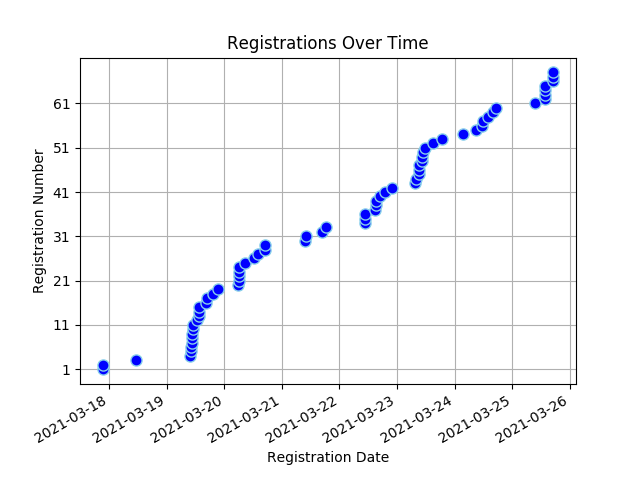
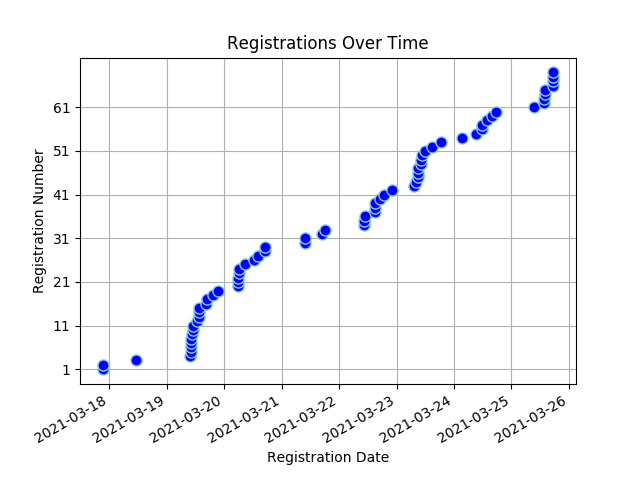
Registree stats backup on Thu 25 Mar 2021 17:31:26 SAST

diff --git a/content/registrees/_index.md b/content/registrees/_index.md
@@ -3,7 +3,7 @@ title: Registration Stats
 draft: false
 ---
 
-<ul><li><strong>Number of Registrees</strong>: 68</li>
+<ul><li><strong>Number of Registrees</strong>: 69</li>
 
 <li><strong>Number of Clubs</strong>: 36</li>
 
@@ -33,6 +33,6 @@ draft: false
         </tr>
     </thead>
     <tbody>
-<tr><td>Natalie Abrahams</td><td>Cape Town</td><td>410W</td></tr><tr><td>Valencia Beukes-Williams</td><td>Kuilsriver</td><td>410W</td></tr><tr><td>JOSE BRAGA BORGES</td><td>Malmesbury</td><td>410W</td></tr><tr><td>Herman Cadman</td><td>Stellenbosch</td><td>410W</td></tr><tr><td>Linda Ann Cannone</td><td>Fish Hoek</td><td>410W</td></tr><tr><td>Sue Charles</td><td>Tokai</td><td>410W</td></tr><tr><td>Perry Chetty</td><td>East Coast</td><td>410E</td></tr><tr><td>Esme Cornelius</td><td>Kuilsriver</td><td>410W</td></tr><tr><td>Sharon Cottle</td><td>Groote Schuur</td><td>410E</td></tr><tr><td>Peter Daniel</td><td>Gordons Bay</td><td>410W</td></tr><tr><td>Norma Daniel</td><td>Gordons Bay</td><td>410W</td></tr><tr><td>Engela de Kock</td><td>Swellendam</td><td>410W</td></tr><tr><td>Francois de Kock</td><td>Swellendam</td><td>410W</td></tr><tr><td>ANDRE DE VILLIERS</td><td>Malgas</td><td>410W</td></tr><tr><td>Desiree du Toit</td><td>Ramsgate</td><td>410E</td></tr><tr><td>Roger Fahrbach</td><td>Windhoek</td><td>410W</td></tr><tr><td>Beate Fahrbach</td><td>Windhoek</td><td>410W</td></tr><tr><td>Charles Flanagan</td><td>Tokai</td><td>410W</td></tr><tr><td>Jules Flanagan</td><td>Tokai</td><td>410W</td></tr><tr><td>Viv Grater</td><td>Sedgefield</td><td>410W</td></tr><tr><td>Dorothy Hess</td><td>Kuilsriver</td><td>410W</td></tr><tr><td>Wendy Higgins</td><td>Wilro Park</td><td>410E</td></tr><tr><td>Jacqui Hocking</td><td>Midrand</td><td>410E</td></tr><tr><td>Cliff Hocking</td><td>Midrand</td><td>410E</td></tr><tr><td>Liz Houston</td><td>Table View</td><td>410W</td></tr><tr><td>John Houston</td><td>Table View</td><td>410W</td></tr><tr><td>WOLSLEY Jacobson</td><td>Cape Town</td><td>410W</td></tr><tr><td>Zwaai Kruger</td><td>Sedgefield</td><td>410W</td></tr><tr><td>Bevil Lakay</td><td>Mitchells Plain</td><td>410W</td></tr><tr><td>Paula Lang</td><td>Gordons Bay</td><td>410W</td></tr><tr><td>Jimmy Lang</td><td>Gordons Bay</td><td>410W</td></tr><tr><td>Sharon Mangwende</td><td>Cape Town</td><td>410E</td></tr><tr><td>Beaulieu Mare</td><td>Benoni Lakes</td><td>410E</td></tr><tr><td>Mark Meltzer</td><td>The Wilds</td><td>410E</td></tr><tr><td>Denis Meyer</td><td>Port Shepstone</td><td>410E</td></tr><tr><td>BERNICE MILLS</td><td>Centurion</td><td>410E</td></tr><tr><td>Patrick Mills</td><td>Centurion</td><td>410E</td></tr><tr><td>Cherie Milosevich</td><td>Milnerton</td><td>410W</td></tr><tr><td>Virginia Mkhize</td><td>Cape Town</td><td>410W</td></tr><tr><td>Bernadine Moses</td><td>Cape Town</td><td>410W</td></tr><tr><td>Pieter Nel</td><td>George</td><td>410W</td></tr><tr><td>Tillie Nel</td><td>Eden</td><td>410W</td></tr><tr><td>BRIAN PORTEOUS</td><td>Hibberdene</td><td>410E</td></tr><tr><td>Irene Rugheimer</td><td>Bedfordview</td><td>410E</td></tr><tr><td>Ingrid Russell</td><td>Fish Hoek</td><td>410W</td></tr><tr><td>Francis Searle</td><td>Kouga</td><td>410E</td></tr><tr><td>Gloria Searle</td><td>Kouga</td><td>410E</td></tr><tr><td>Sue Smit</td><td>Centurion</td><td>410E</td></tr><tr><td>Jeff Smith</td><td>Port Shepstone</td><td>410E</td></tr><tr><td>LYN SNYMAN</td><td>Deep South</td><td>410W</td></tr><tr><td>RORY stier</td><td>Deep South</td><td>410W</td></tr><tr><td>Patrick Strauss</td><td>Kuilsriver</td><td>410W</td></tr><tr><td>Lauryn Talbot</td><td>Benoni Lakes</td><td>410E</td></tr><tr><td>Alistair Tuckett</td><td>Roodepoort Clearwater Cyber</td><td>410E</td></tr><tr><td>HILARY LISE VAN BREDA</td><td>Cape Town</td><td>410W</td></tr><tr><td>Marina Van de Merwe</td><td>Malmesbury</td><td>410W</td></tr><tr><td>Neville Van Rensburg</td><td>Moorreesburg</td><td>410W</td></tr><tr><td>Johan van Rensburg</td><td>Windhoek</td><td>410W</td></tr><tr><td>Anne van Rensburg</td><td>Windhoek</td><td>410W</td></tr><tr><td>Jeannie van Wulven</td><td>Tygerberg Hills</td><td>410W</td></tr><tr><td>Alan van Wulven</td><td>Tygerberg Hills</td><td>410W</td></tr><tr><td>Deon van Wulven</td><td>Tygerberg Hills</td><td>410W</td></tr><tr><td>Kim van Wyk</td><td>North Durban</td><td>410E</td></tr><tr><td>Edith Van Wyk-Nelson</td><td>Kuilsriver</td><td>410W</td></tr><tr><td>Brian von der Decken</td><td>King William's Town</td><td>410E</td></tr><tr><td>Rochelle Vorster</td><td>Sedgefield</td><td>410W</td></tr><tr><td>Allan Watson</td><td>Sea Point</td><td>410W</td></tr><tr><td>Judy Young</td><td>Durbanville</td><td>410W</td></tr>
+<tr><td>Natalie Abrahams</td><td>Cape Town</td><td>410W</td></tr><tr><td>Valencia Beukes-Williams</td><td>Kuilsriver</td><td>410W</td></tr><tr><td>JOSE BRAGA BORGES</td><td>Malmesbury</td><td>410W</td></tr><tr><td>Herman Cadman</td><td>Stellenbosch</td><td>410W</td></tr><tr><td>Linda Ann Cannone</td><td>Fish Hoek</td><td>410W</td></tr><tr><td>Sue Charles</td><td>Tokai</td><td>410W</td></tr><tr><td>Perry Chetty</td><td>East Coast</td><td>410E</td></tr><tr><td>Esme Cornelius</td><td>Kuilsriver</td><td>410W</td></tr><tr><td>Sharon Cottle</td><td>Groote Schuur</td><td>410E</td></tr><tr><td>Peter Daniel</td><td>Gordons Bay</td><td>410W</td></tr><tr><td>Norma Daniel</td><td>Gordons Bay</td><td>410W</td></tr><tr><td>Engela de Kock</td><td>Swellendam</td><td>410W</td></tr><tr><td>Francois de Kock</td><td>Swellendam</td><td>410W</td></tr><tr><td>ANDRE DE VILLIERS</td><td>Malgas</td><td>410W</td></tr><tr><td>Desiree du Toit</td><td>Ramsgate</td><td>410E</td></tr><tr><td>Roger Fahrbach</td><td>Windhoek</td><td>410W</td></tr><tr><td>Beate Fahrbach</td><td>Windhoek</td><td>410W</td></tr><tr><td>Charles Flanagan</td><td>Tokai</td><td>410W</td></tr><tr><td>Jules Flanagan</td><td>Tokai</td><td>410W</td></tr><tr><td>Viv Grater</td><td>Sedgefield</td><td>410W</td></tr><tr><td>Dorothy Hess</td><td>Kuilsriver</td><td>410W</td></tr><tr><td>Wendy Higgins</td><td>Wilro Park</td><td>410E</td></tr><tr><td>Jacqui Hocking</td><td>Midrand</td><td>410E</td></tr><tr><td>Cliff Hocking</td><td>Midrand</td><td>410E</td></tr><tr><td>Liz Houston</td><td>Table View</td><td>410W</td></tr><tr><td>John Houston</td><td>Table View</td><td>410W</td></tr><tr><td>WOLSLEY Jacobson</td><td>Cape Town</td><td>410W</td></tr><tr><td>Jerome Kern</td><td>Groote Schuur</td><td>410W</td></tr><tr><td>Zwaai Kruger</td><td>Sedgefield</td><td>410W</td></tr><tr><td>Bevil Lakay</td><td>Mitchells Plain</td><td>410W</td></tr><tr><td>Paula Lang</td><td>Gordons Bay</td><td>410W</td></tr><tr><td>Jimmy Lang</td><td>Gordons Bay</td><td>410W</td></tr><tr><td>Sharon Mangwende</td><td>Cape Town</td><td>410E</td></tr><tr><td>Beaulieu Mare</td><td>Benoni Lakes</td><td>410E</td></tr><tr><td>Mark Meltzer</td><td>The Wilds</td><td>410E</td></tr><tr><td>Denis Meyer</td><td>Port Shepstone</td><td>410E</td></tr><tr><td>BERNICE MILLS</td><td>Centurion</td><td>410E</td></tr><tr><td>Patrick Mills</td><td>Centurion</td><td>410E</td></tr><tr><td>Cherie Milosevich</td><td>Milnerton</td><td>410W</td></tr><tr><td>Virginia Mkhize</td><td>Cape Town</td><td>410W</td></tr><tr><td>Bernadine Moses</td><td>Cape Town</td><td>410W</td></tr><tr><td>Pieter Nel</td><td>George</td><td>410W</td></tr><tr><td>Tillie Nel</td><td>Eden</td><td>410W</td></tr><tr><td>BRIAN PORTEOUS</td><td>Hibberdene</td><td>410E</td></tr><tr><td>Irene Rugheimer</td><td>Bedfordview</td><td>410E</td></tr><tr><td>Ingrid Russell</td><td>Fish Hoek</td><td>410W</td></tr><tr><td>Francis Searle</td><td>Kouga</td><td>410E</td></tr><tr><td>Gloria Searle</td><td>Kouga</td><td>410E</td></tr><tr><td>Sue Smit</td><td>Centurion</td><td>410E</td></tr><tr><td>Jeff Smith</td><td>Port Shepstone</td><td>410E</td></tr><tr><td>LYN SNYMAN</td><td>Deep South</td><td>410W</td></tr><tr><td>RORY stier</td><td>Deep South</td><td>410W</td></tr><tr><td>Patrick Strauss</td><td>Kuilsriver</td><td>410W</td></tr><tr><td>Lauryn Talbot</td><td>Benoni Lakes</td><td>410E</td></tr><tr><td>Alistair Tuckett</td><td>Roodepoort Clearwater Cyber</td><td>410E</td></tr><tr><td>HILARY LISE VAN BREDA</td><td>Cape Town</td><td>410W</td></tr><tr><td>Marina Van de Merwe</td><td>Malmesbury</td><td>410W</td></tr><tr><td>Neville Van Rensburg</td><td>Moorreesburg</td><td>410W</td></tr><tr><td>Johan van Rensburg</td><td>Windhoek</td><td>410W</td></tr><tr><td>Anne van Rensburg</td><td>Windhoek</td><td>410W</td></tr><tr><td>Jeannie van Wulven</td><td>Tygerberg Hills</td><td>410W</td></tr><tr><td>Alan van Wulven</td><td>Tygerberg Hills</td><td>410W</td></tr><tr><td>Deon van Wulven</td><td>Tygerberg Hills</td><td>410W</td></tr><tr><td>Kim van Wyk</td><td>North Durban</td><td>410E</td></tr><tr><td>Edith Van Wyk-Nelson</td><td>Kuilsriver</td><td>410W</td></tr><tr><td>Brian von der Decken</td><td>King William's Town</td><td>410E</td></tr><tr><td>Rochelle Vorster</td><td>Sedgefield</td><td>410W</td></tr><tr><td>Allan Watson</td><td>Sea Point</td><td>410W</td></tr><tr><td>Judy Young</td><td>Durbanville</td><td>410W</td></tr>
 </tbody>
 </table>

diff --git a/content/full_stats/_index.md b/content/full_stats/_index.md
@@ -16,16 +16,16 @@ draft: false
 </head>
 <body>
 <h1 style="color: #000000;">Full Registration Stats</h1>
-<ul><li><strong>Number of Registrees</strong>: 68</li>
+<ul><li><strong>Number of Registrees</strong>: 69</li>
 <li><strong>Number of Clubs</strong>: 36</li>
 <li><strong>Club With Most Attendees</strong>: Cape Town (6 registrees)</li>
 
-<li><strong>Number of District 410W Convention Attendees</strong>: 46</li>
+<li><strong>Number of District 410W Convention Attendees</strong>: 47</li>
 <li><strong>Number of District 410W Convention Voters</strong>: 24</li>
 <li><strong>Number of District 410E Convention Attendees</strong>: 22</li>
 <li><strong>Number of District 410E Convention Voters</strong>: 12</li>
 
-<li><strong>Number of MD410 Convention Attendees</strong>: 62</li>
+<li><strong>Number of MD410 Convention Attendees</strong>: 63</li>
 <li><strong>Number of MD410 Convention Voters</strong>: 34</li>
 
 </ul>
@@ -352,6 +352,17 @@ draft: false
 <td>Cape Town</td>
 <td>410W</td>
 <td style="background-color: lightgreen">Yes</td>
+<td style="background-color: lightgreen">Yes</td>
+<td style="background-color: lightgreen">Yes</td>
+<td>No</td>
+</tr>
+
+    
+<td>71</td>
+<td>Jerome Kern</td>
+<td>Groote Schuur</td>
+<td>410W</td>
+<td>No</td>
 <td style="background-color: lightgreen">Yes</td>
 <td style="background-color: lightgreen">Yes</td>
 <td>No</td>
